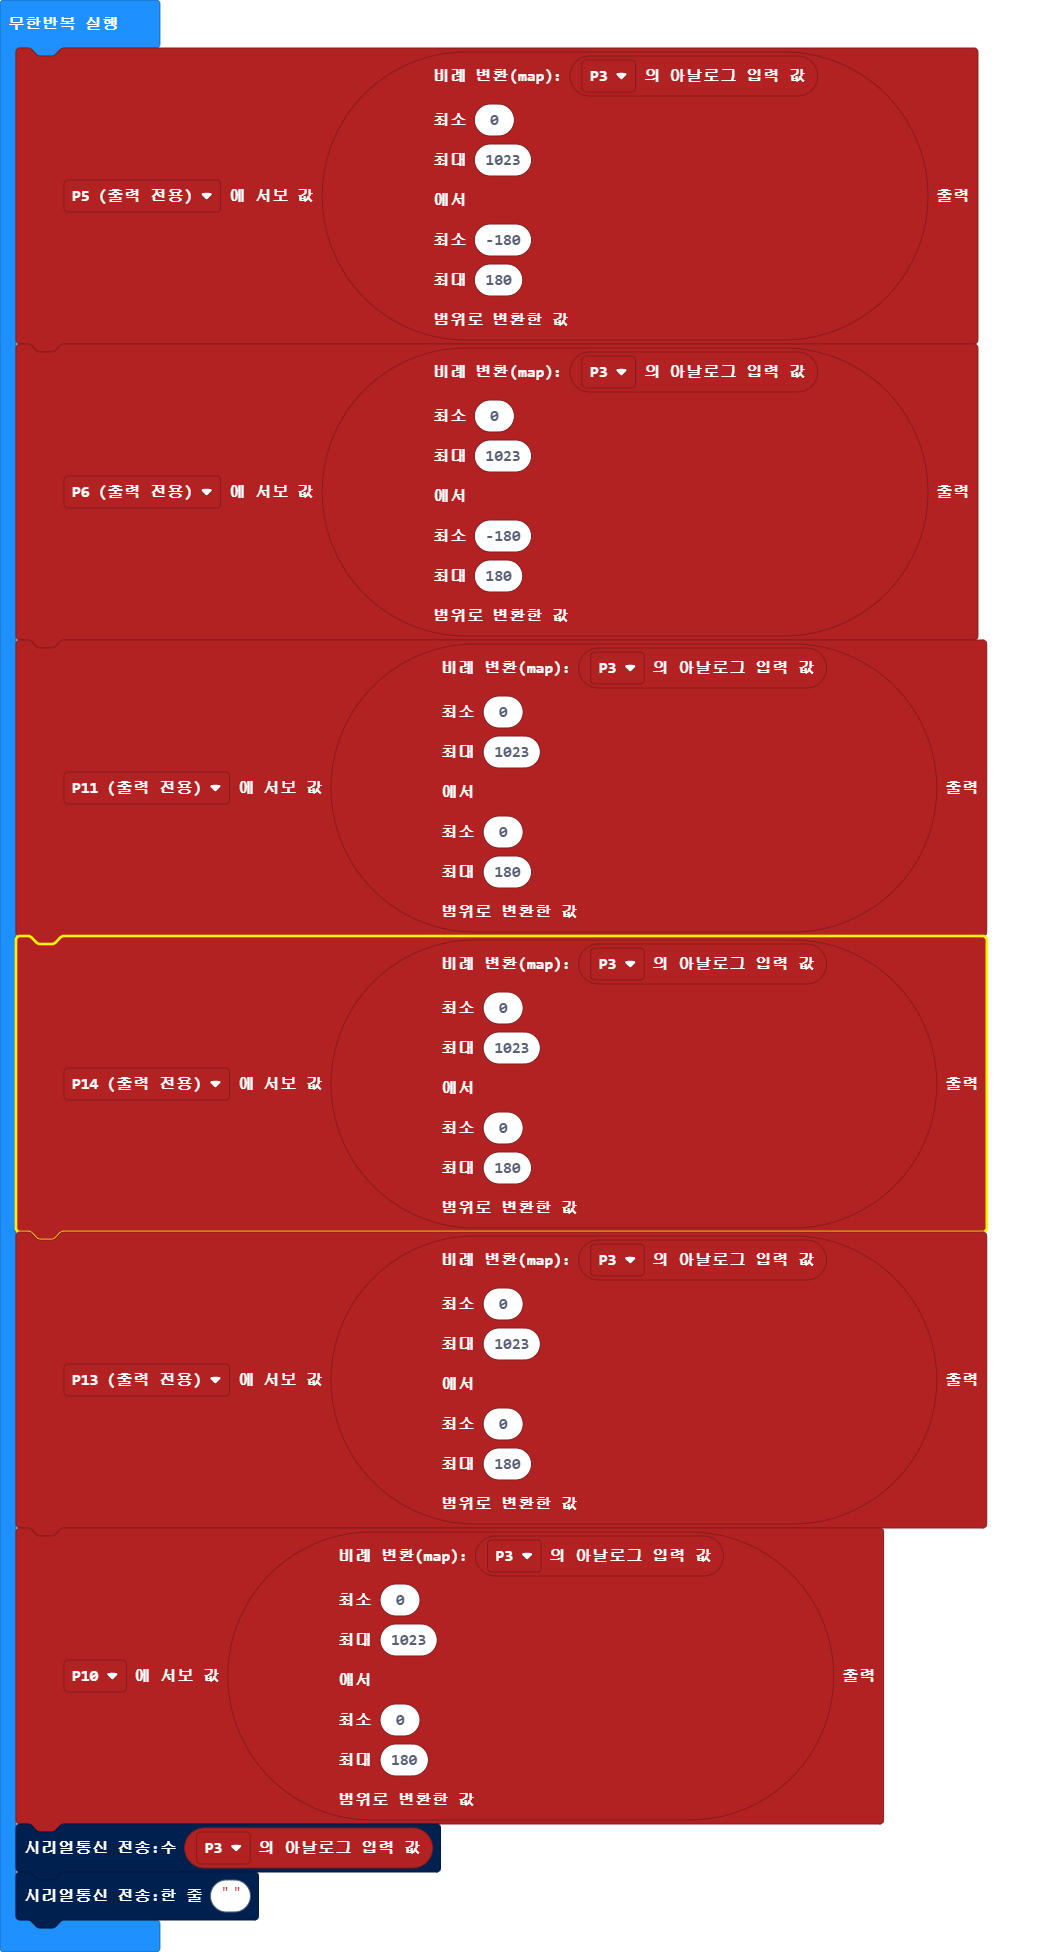
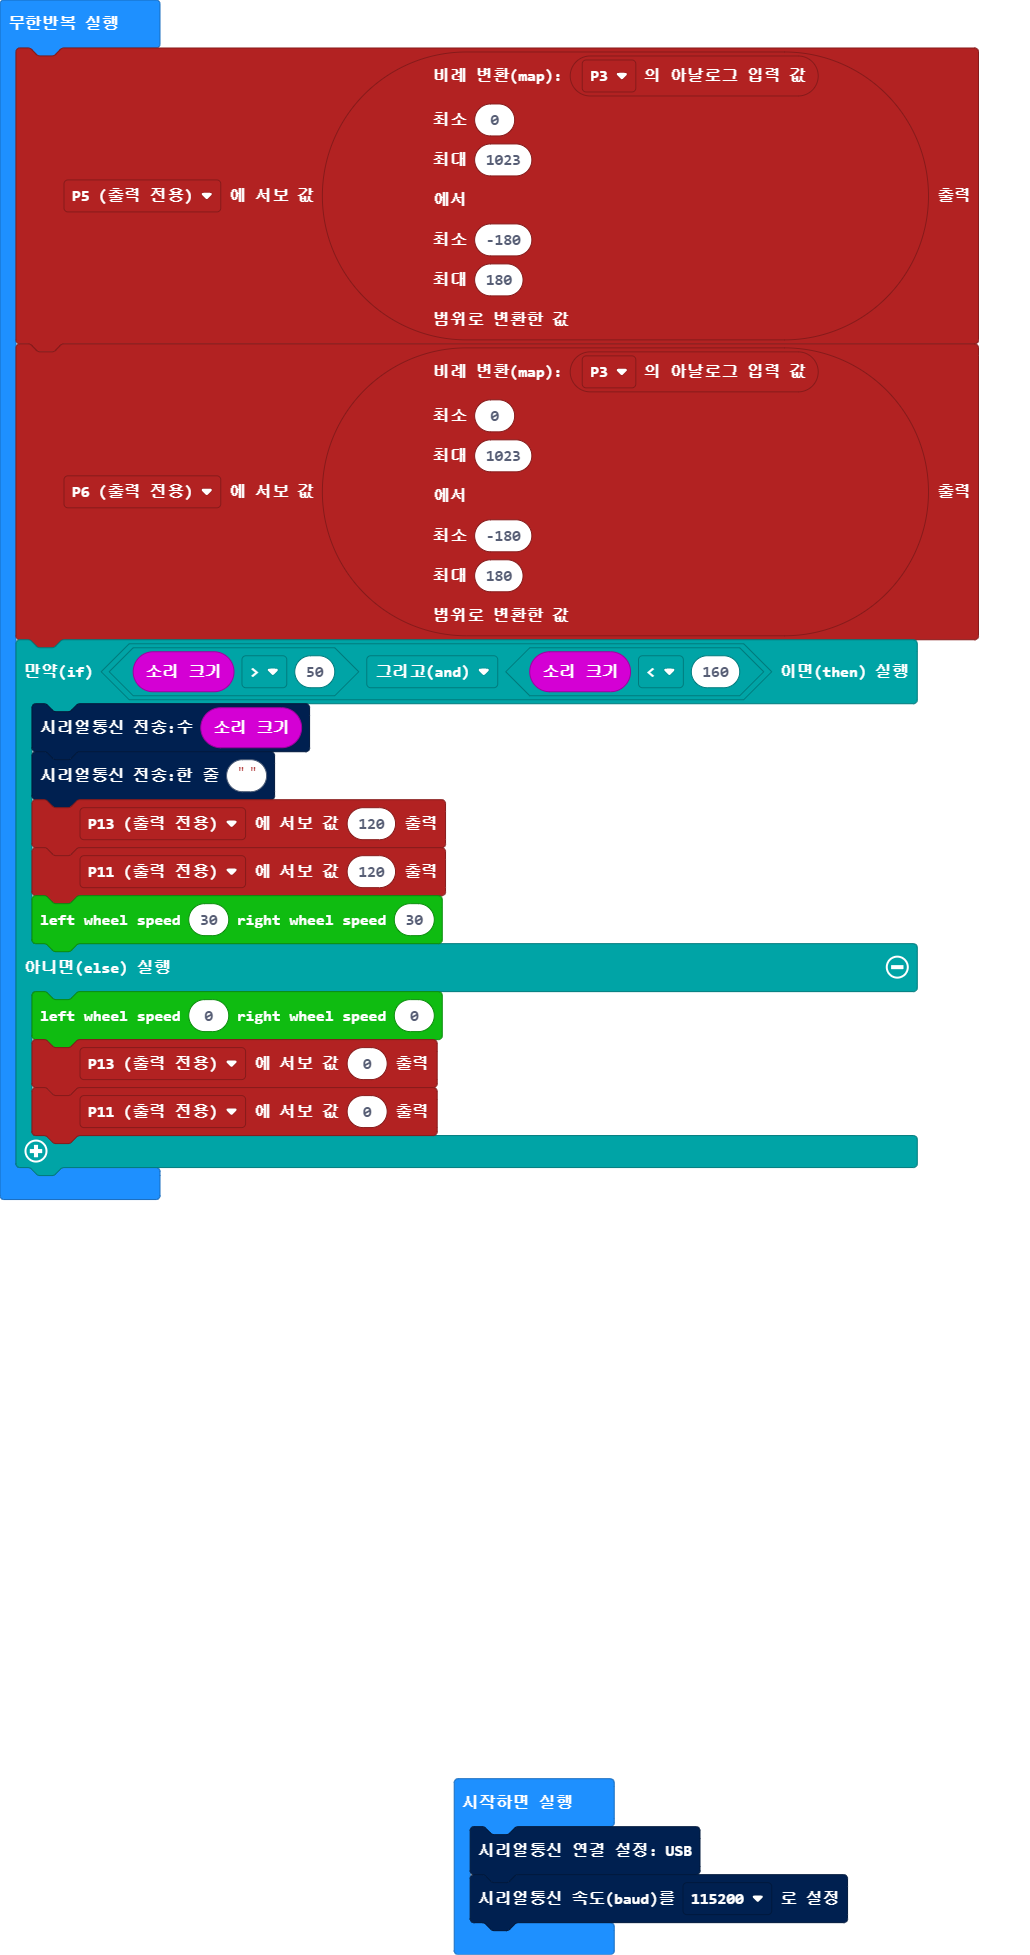
Update main.blocks, main.ts

diff --git a/main.ts b/main.ts
@@ -15,34 +15,15 @@ basic.forever(function () {
     -180,
     180
     ))
-    pins.servoWritePin(AnalogPin.P11, pins.map(
-    pins.analogReadPin(AnalogPin.P3),
-    0,
-    1023,
-    0,
-    180
-    ))
-    pins.servoWritePin(AnalogPin.P14, pins.map(
-    pins.analogReadPin(AnalogPin.P3),
-    0,
-    1023,
-    0,
-    180
-    ))
-    pins.servoWritePin(AnalogPin.P13, pins.map(
-    pins.analogReadPin(AnalogPin.P3),
-    0,
-    1023,
-    0,
-    180
-    ))
-    pins.servoWritePin(AnalogPin.P10, pins.map(
-    pins.analogReadPin(AnalogPin.P3),
-    0,
-    1023,
-    0,
-    180
-    ))
-    serial.writeNumber(pins.analogReadPin(AnalogPin.P3))
-    serial.writeLine("")
+    if (input.soundLevel() > 50 && input.soundLevel() < 160) {
+        serial.writeNumber(input.soundLevel())
+        serial.writeLine("")
+        pins.servoWritePin(AnalogPin.P13, 120)
+        pins.servoWritePin(AnalogPin.P11, 120)
+        motorbit.freestyle(30, 30)
+    } else {
+        motorbit.freestyle(0, 0)
+        pins.servoWritePin(AnalogPin.P13, 0)
+        pins.servoWritePin(AnalogPin.P11, 0)
+    }
 })
